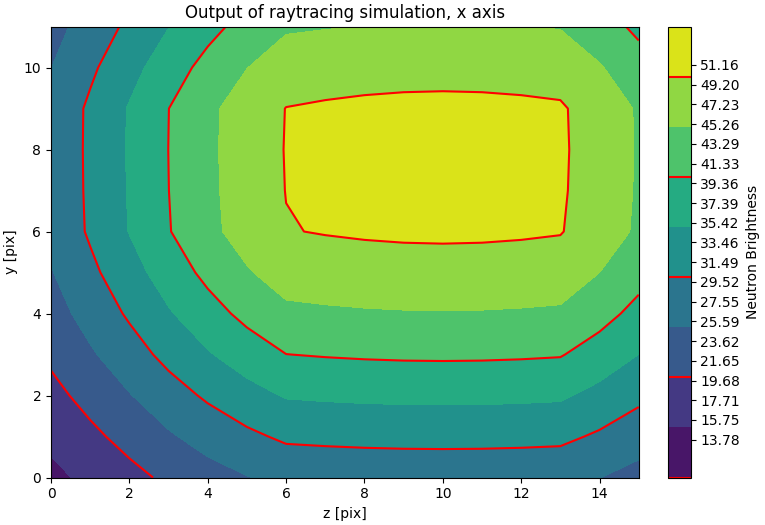
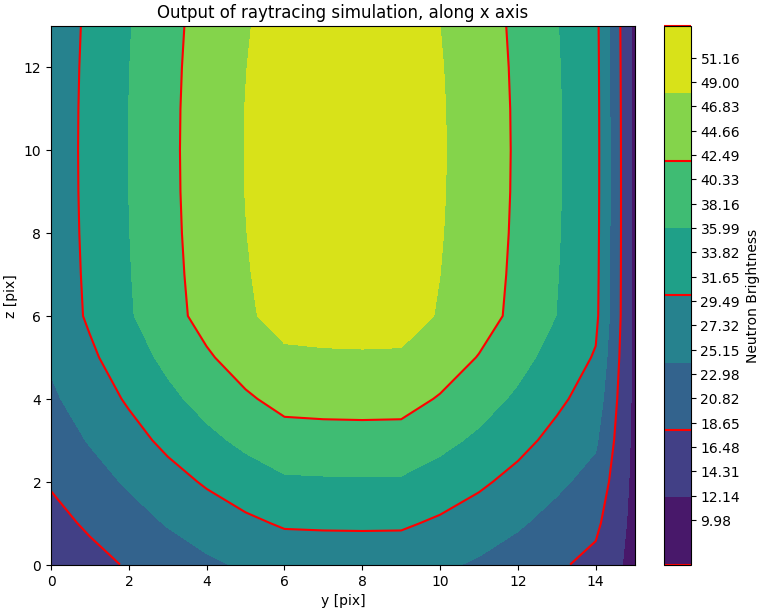
Final working edition

diff --git a/main.py b/main.py
@@ -8,24 +8,34 @@ import config_fns
 import ray_tracing_fns
 import os
 
-# Configurationf
+# # Put the input file path and file names here
 DATA_PATH = "E:/Documents and stuff/School_Stuff/_CSNS/PNI/COMSOL6.0(64bit)/Simulations/"
 # DATA_FILE = "Horseshoe.txt"
-DATA_FILE = "bar_magnet.txt"
-# DATA_FILE = "empty.txt"
+# DATA_FILE = "bar_magnet.txt"
+DATA_FILE = "empty.txt"
 
-AXIS = "y" # Axis to be raytraced along, must be "x", "y", or "z"
+# # Defines a source profile
+# # To use a uniform source profile, set SOURCE_PROFILE to None
+# # To use a gaussian source profile, set SOURCE_PROFILE to "gaussian"
+# # To use a custom source profile, set SOURCE_PROFILE to a 2D intensity map (np.array)
+SOURCE_PROFILE = "gaussian"
 
+# # Specify in which axis is the neutron beam projected
+AXIS = "z" # Axis to be raytraced along, must be "x", "y", or "z"
+
+# # Misc settings
+PLOT_NAME = 'background'
 PLOT_FIELD_FIRST = False # If true, generates a plot of the field before raytracing
 SHOW_PROGRESS = True # If true, prints the progress
-SOURCE_PROFILE = "gaussian" # Defines a source profile (use an imported function here)
+
+INITIAL_POLARIZATION = 1
 
 # Execution code
 if __name__ == "__main__":
     # Identify input data type
     if DATA_FILE.rsplit('.', maxsplit=1)[-1] == 'txt':
         field, _ = config_fns.read_data(DATA_PATH, DATA_FILE)
-        field_loc = np.indices(np.shape(field)[:-1]) 
+        field_loc = np.indices(np.shape(field)[:-1])
     elif DATA_FILE.rsplit('.', maxsplit=1)[-1] == 'npz':
         data = np.load(DATA_PATH + "/" + DATA_FILE)
         field = data["field"]
@@ -33,15 +43,15 @@ if __name__ == "__main__":
 
     field = np.transpose(field, (3, 0, 1, 2))
 
-    # Rotate the field
+    # Rotate the field (40, 32, 24, 3) (z, y, x, 3)
     axis_rot = {"x": (3, 2, 1, 0), "y": (2, 3, 1, 0), "z": (1, 3, 2, 0)}
-    
+
     field_loc = np.transpose(field_loc, axis_rot[AXIS])
     field = np.transpose(field, axis_rot[AXIS])
 
-    space_dim = np.shape(field)[:-1]
+    space_dim = np.shape(field)[0:3] # NOTE: this works
     print(f"The size of the space is {space_dim}")
-    space_dim = np.array(space_dim)
+    space_dim = np.array(space_dim) + [space_dim[0]//10, space_dim[1]//10, space_dim[2]//10]
 
     field_loc_T = np.transpose(field_loc, (3, 0, 1, 2))
     field_T = np.transpose(field, (3, 0, 1, 2))
@@ -53,47 +63,44 @@ if __name__ == "__main__":
         ax.quiver(x, y, z,
                   field_T[2], field_T[1], field_T[0],
                   length = 1, normalize = True)
-        # plt.xlim(0, space_dim[0])
-        # plt.ylim(0, space_dim[1])
-        # ax.set_zlim(0, space_dim[2])
         plt.show()
 
     if SOURCE_PROFILE is None:
         source = np.ones((space_dim[1], space_dim[2]))
+        print("No source profile specified, using a uniform source profile.")
     elif SOURCE_PROFILE == "gaussian":
         source = config_fns.gaussian_2d(space_dim,
                                         config.SOURCE_STD,
                                         config.SOURCE_NORM)
     else: 
-        raise ValueError("Invalid source profile.")
+        pass
 
     # Do raytracing
     start_time = datetime.now()
     print(f"Starting raytracing at {str(start_time)}, along axis {AXIS}.")
 
-    output = np.zeros(space_dim[0:2])
+    output = np.zeros(space_dim[1:3])
 
-    PIX_COUNT = 0
-    PIX_TIME = 0
-    tot_pix = np.prod(np.shape(output))
+    ROW_TIME = 0
+    tot_row = np.shape(output)[0]
+    # NOTE: I might be iterating through the dimensions in the wrong order
     with mp.Pool(processes = os.cpu_count()) as pool:
         for i, row in enumerate(output):
+            row_start = datetime.now()
+            progress = round(i/tot_row * 100, 2)
+            if SHOW_PROGRESS:
+                print(f"Now processing row {i}/{tot_row}, progress {progress}"
+                      f"%. Last row used {ROW_TIME}. "
+                      f"Total time elapsed: {datetime.now() - start_time}. "
+                      f"Estimated time remaining: {tot_row * ROW_TIME}. ")
             for j, col in enumerate(row):
-                pix_start = datetime.now()
-                progress = round(PIX_COUNT/tot_pix * 100, 2)
-                
-                if SHOW_PROGRESS:
-                    print(f"Now processing pixel ({i}, {j}), progress {progress}%. "
-                      f"Last pixel used {PIX_TIME}. "
-                      f"Total time elapsed: {datetime.now() - start_time}")
                 i_pix = pool.apply_async(ray_tracing_fns.ray_tracing_sim,
                                          args=(field, (i, j), source))
                 i_pix = i_pix.get()
 
                 output[i][j] = i_pix
 
-                PIX_COUNT += 1
-                PIX_TIME = datetime.now() - pix_start
+            ROW_TIME = datetime.now() - row_start
 
     # Normalize the output
 
@@ -101,10 +108,10 @@ if __name__ == "__main__":
     print(f"{completion} - Processing complete."
           f"Total time taken: {completion - start_time}")
 
-    PLOT_AXIS = "xyz".replace(AXIS, '')
+    PLOT_AXIS = "zxy".replace(AXIS, '')
 
     # Make the plot
-    size = (space_dim[1] + 1.5, space_dim[0])/max(space_dim[0:2]) * 7
+    size = (space_dim[2] + 1.5, space_dim[1])/max(space_dim[1:3]) * 7
     fig, ax = plt.subplots(layout = 'constrained', figsize = size)
     contorf = plt.contourf(output)
     contor = ax.contour(contorf, levels = contorf.levels[::2], colors='r')
@@ -114,8 +121,12 @@ if __name__ == "__main__":
     cbar.ax.set_ylabel('Neutron Brightness')
     cbar.add_lines(contor)
 
-    plt.ylabel(f"{PLOT_AXIS[0]} [pix]")
-    plt.xlabel(f"{PLOT_AXIS[1]} [pix]")
-    plt.title(f"Output of raytracing simulation, {AXIS} axis")
-    plt.savefig(f"plots/result {AXIS}.png")
+    plt.ylabel(f"{PLOT_AXIS[1]} [pix]")
+    plt.xlabel(f"{PLOT_AXIS[0]} [pix]")
+    plt.title(f"Output of raytracing simulation, along {AXIS} axis")
 
+    if PLOT_NAME == '' or PLOT_NAME is None:
+        PLOT_NAME = 'result'
+
+    plt.savefig(f"plots/{PLOT_NAME} {AXIS}.png")
+    print(f"{datetime.now()} - Plot saved as {PLOT_NAME} {AXIS}.png")

diff --git a/config_fns.py b/config_fns.py
@@ -2,7 +2,7 @@
     Editing this file is not advised.
 """
 import numpy as np
-import config
+import main
 
 def gaussian_2d(space_dim, sigma, mu_):
     """Returns a 2D Gaussian distribution in a 2D array.
@@ -109,6 +109,7 @@ def find_polarization(path_field, wavelength):
     Args:
         path_field (np.array): The magnetic field values of each voxel the ray passes through.
         wavelength (float): The wavelength of the neutron.
+        P_0 (float): The initial polarization rate of the neutron. Defaults to 1.
 
     Returns:
         float: The polarization rate of the neutron.
@@ -118,7 +119,9 @@ def find_polarization(path_field, wavelength):
     m = 1.675e-27
     field_integral = np.sum(path_field, axis=0) # In Tesla
     temp = GAMMA * m / h * field_integral
-    P = 1 - temp**2 * wavelength**2
+    dP = temp**2 * wavelength**2
+
+    P = (1 - dP) * main.INITIAL_POLARIZATION
 
     return P
 

diff --git a/debug.py b/debug.py
@@ -1,5 +1,6 @@
+"""Testing ground for new features, or to run a specific function and see what's wrong with it"""
 import numpy as np
 
-test = (6, 8, 10)
+test = (6, 8, 10, 3)
 
-print((1, 2) + (3, 4))
+print(test[0:3])
